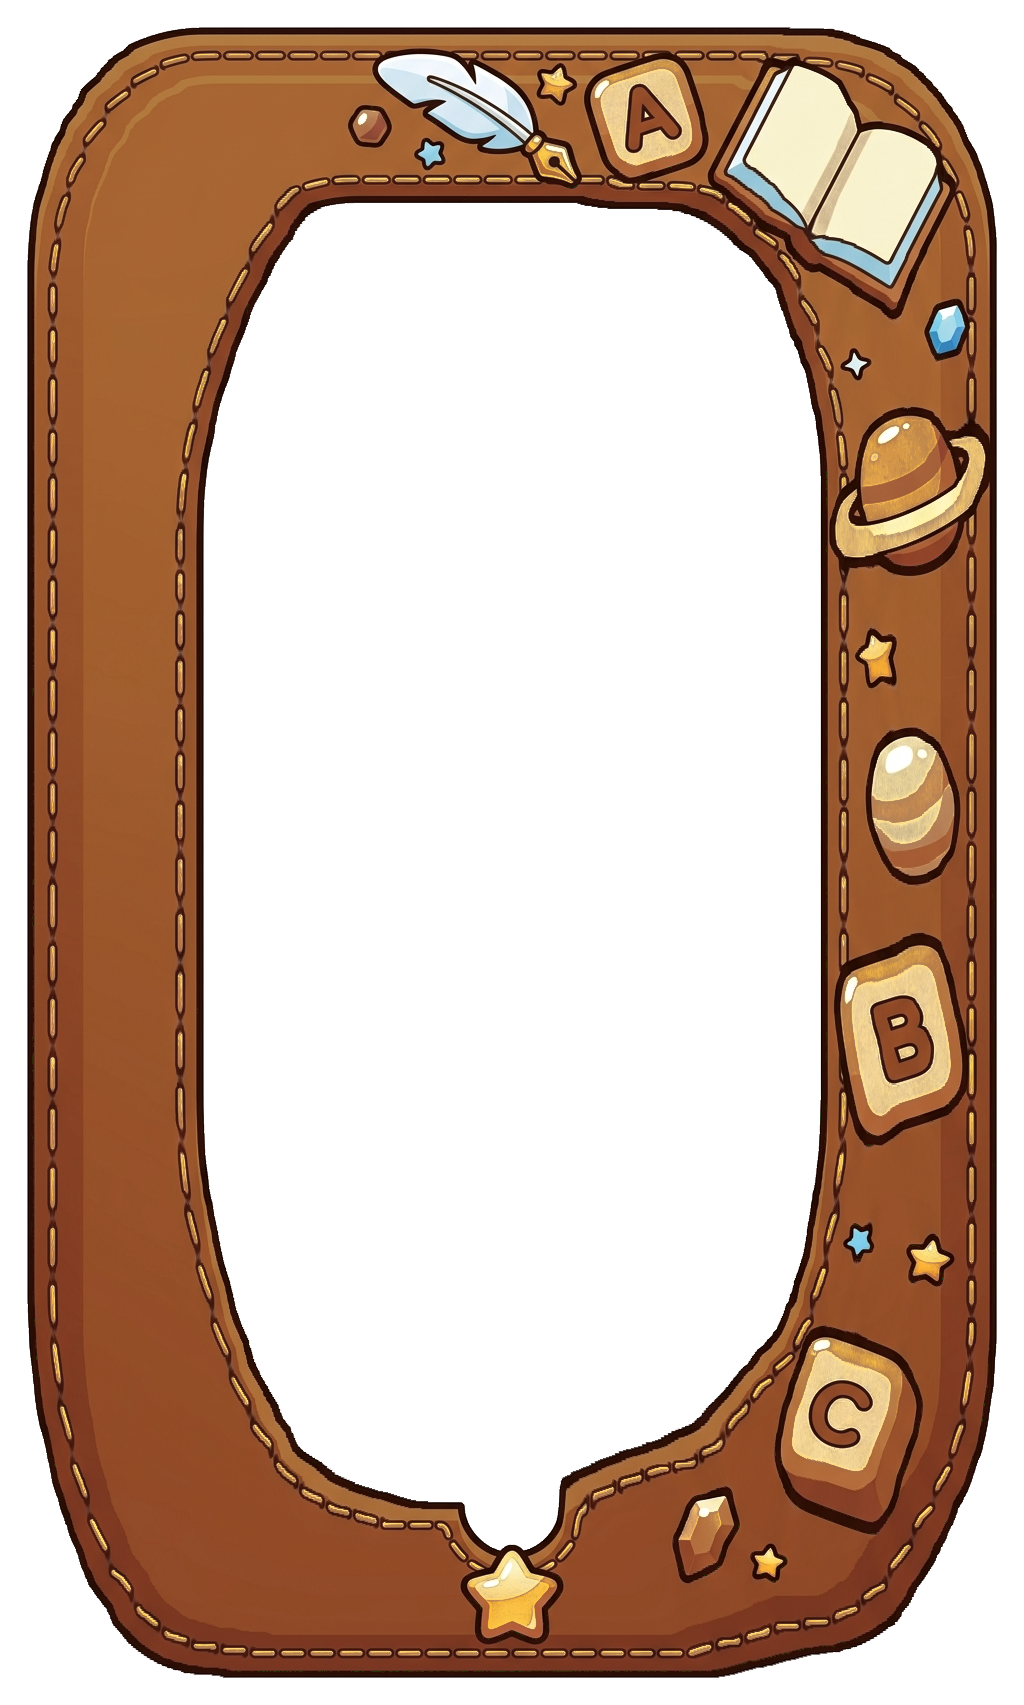
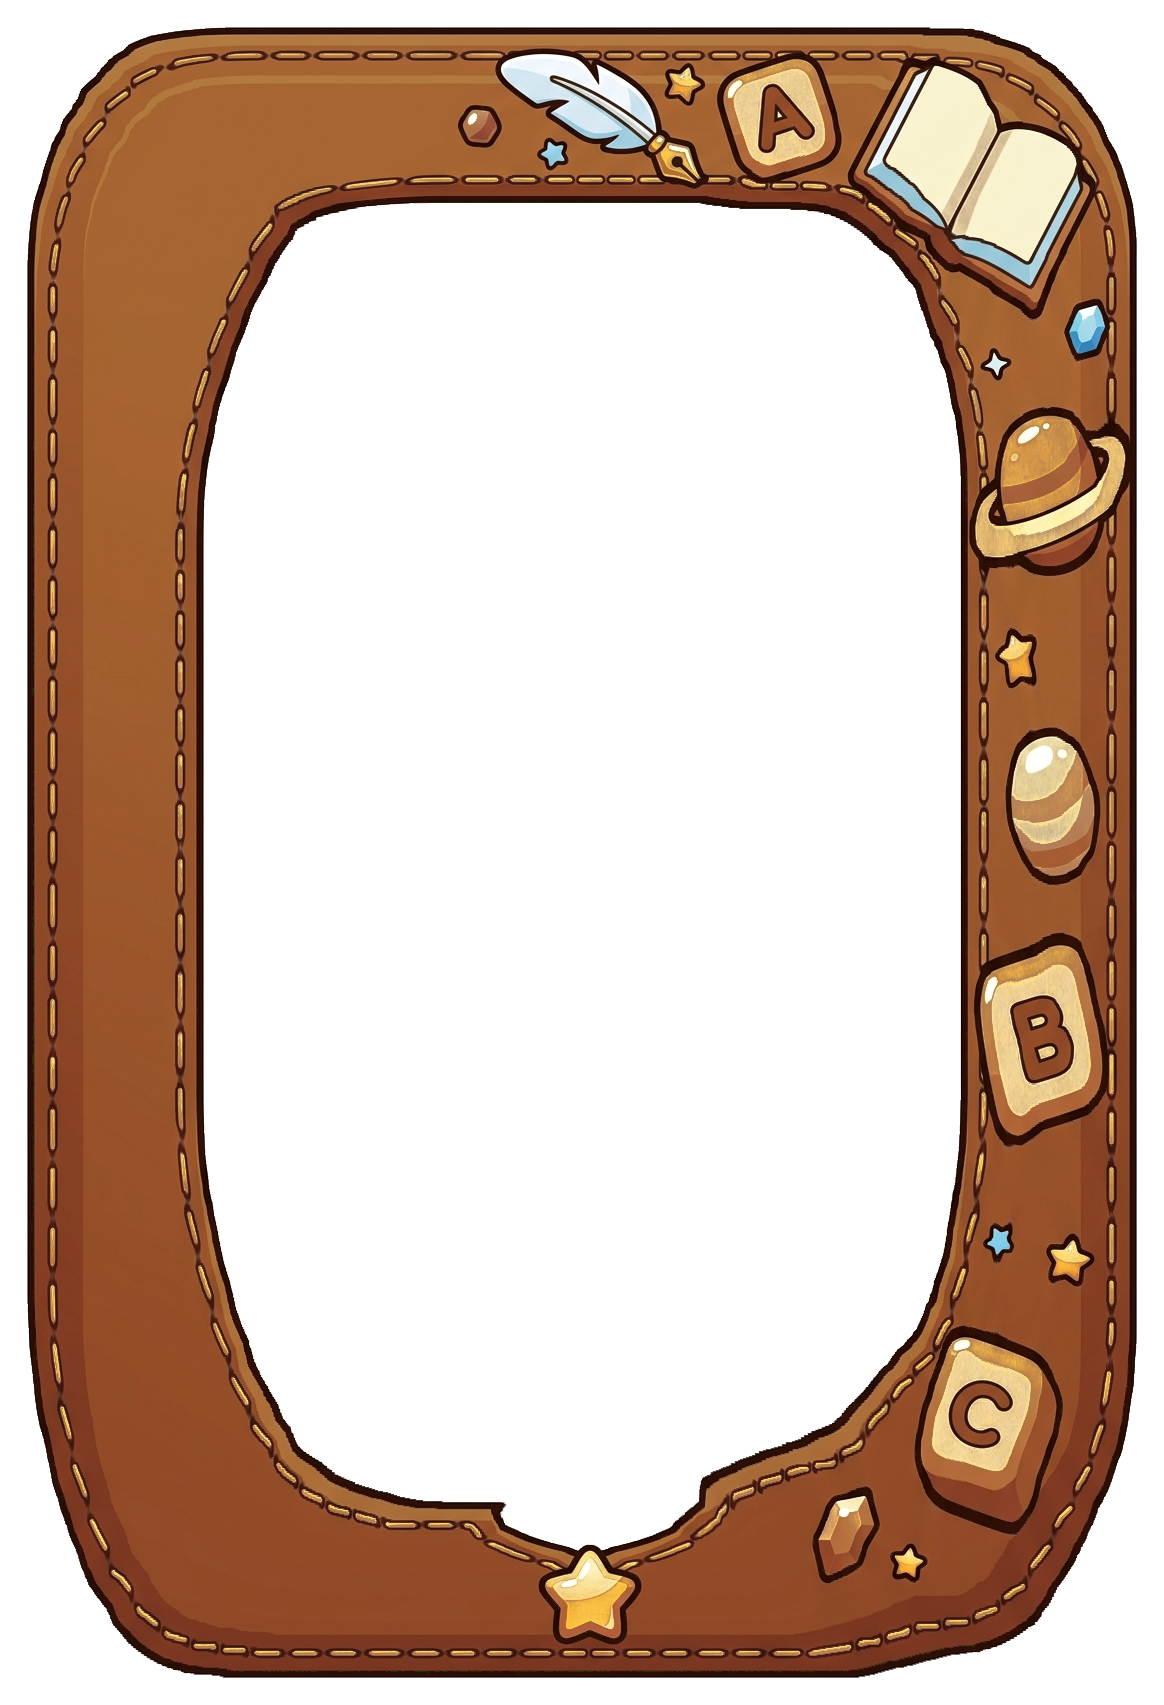
توسيعُ الفريمِ الطوليِّ للإنجليزية (frame-en-tall): الفتحةُ من ٦٠٪ إلى ٦٥٪ من العرض
- ملاحظةُ المالك ٢٠٢٦-٠٩-١٨: الأزرارُ في الأسئلةِ الطوليةِ تلامسُ الجلدَ من الجانبَين.
  أُدرِجَ ١٤٠ عموداً بالخياطةِ المحسوبة (1024←1164) داخلَ الفتحةِ الشفّافةِ وحدَها —
  الحزامانِ الجانبيانِ والزخارفُ والهامشُ الخارجيُّ محميّةٌ فلم تتغيّرْ سماكةُ الجلدِ ولا رسمُه.
- الإعداد: ar 1164/1705 وحوافُّ win مقيسةٌ من ألفا (17.5/11.9/17.5/11.8)، نسبةُ النافذةِ
  0.581 (كانت 0.475) وما زالت أطولَ العائلةِ فترتيبُ الاختيارِ سليم.
- مقيسٌ حيّاً على «Sort each word»: صارت مجموعتا التصنيفِ جنباً إلى جنبٍ بهامشِ ١٤px عن
  النافذةِ والبطاقاتُ بهامشِ ٢٤px، بدلَ الالتصاقِ بالحافّة. الأصلُ محفوظٌ في originals/.

diff --git a/js/shoogp-ui.js b/js/shoogp-ui.js
@@ -337,11 +337,15 @@ var FRAME_FAMILIES={
      فبقيَ شريطٌ من خلفيةِ الصفحةِ ظاهراً بين اللوحِ الأخضرِ وحافّةِ الجلد (لاحظَه المالكُ
      أسفلَ الفريم). القياسُ بالطريقةِ نفسِها التي يعتمدُها `measureFrameGeo` (أعمدةٌ عندَ
      ٪٢٠/٣٥/٦٥/٨٠ من عرضِ الفتحةِ تتفادى شارةَ النجمةِ المركزية)، من `images/ui/frame-en-*.png`. */
+  /* ⚠ tall وُسِّعَ ١٤٠ عموداً (1024←1164، ٢٠٢٦-٠٩-١٨) بطلبِ المالك: كانت الأزرارُ تلامسُ
+     الجلدَ من الجانبَين. الإدراجُ بالخياطةِ المحسوبةِ داخلَ الفتحةِ الشفّافةِ وحدَها (الحزامانِ
+     الجانبيانِ والزخارفُ والهامشُ الخارجيُّ محميّة)، فاتّسعت الفتحةُ من ٦٠٪ إلى ٦٥٪ من العرضِ
+     والجلدُ على سماكتِه. الأصلُ في images/ui/originals/frame-en-tall.pre-widen.png. */
   en:{ order:['s','m','l','tall'], flexBase:'l', sizes:{
     s:{img:'frame-en-s.png', ar:'1264 / 848',  win:{top:'20.2%', left:'16.3%', right:'15.9%', bottom:'20.0%'}, hasFill:false, fillDip:true},
     m:{img:'frame-en-m.png', ar:'1333 / 1024', win:{top:'19.8%', left:'27.3%', right:'15.3%', bottom:'17.1%'}, hasFill:false, fillDip:true},
     l:{img:'frame-en-l.png', ar:'1024 / 1024', win:{top:'19.8%', left:'19.9%', right:'19.9%', bottom:'19.8%'}, hasFill:false, fillDip:true},
-    tall:{img:'frame-en-tall.png', ar:'1024 / 1705', win:{top:'11.9%', left:'19.9%', right:'19.9%', bottom:'12.0%'}, hasFill:false, fillDip:true}
+    tall:{img:'frame-en-tall.png', ar:'1164 / 1705', win:{top:'11.9%', left:'17.5%', right:'17.5%', bottom:'11.8%'}, hasFill:false, fillDip:true}
   }}
 };
 /* ═══ مادةُ الدرس → عائلةُ الفريم — **جدولٌ لا سلسلةُ شروط** ═══
